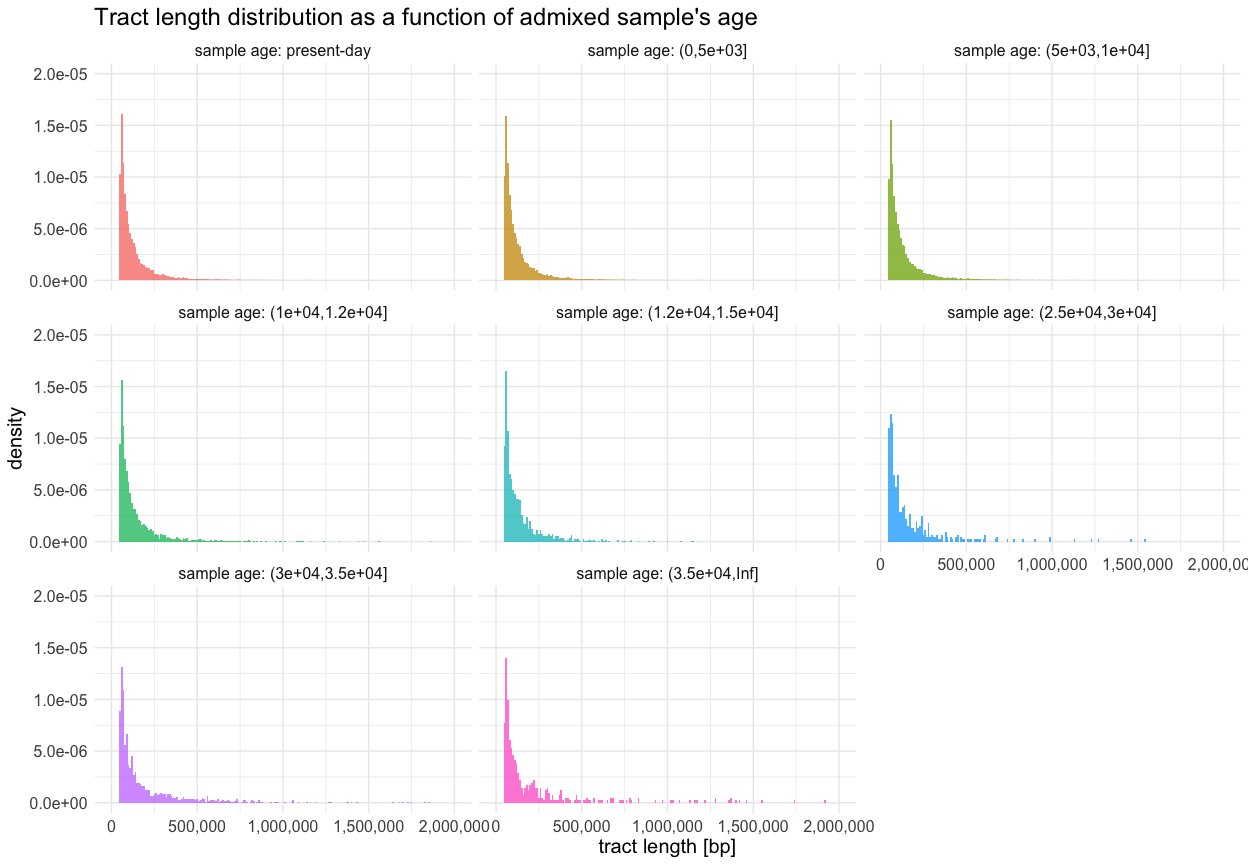
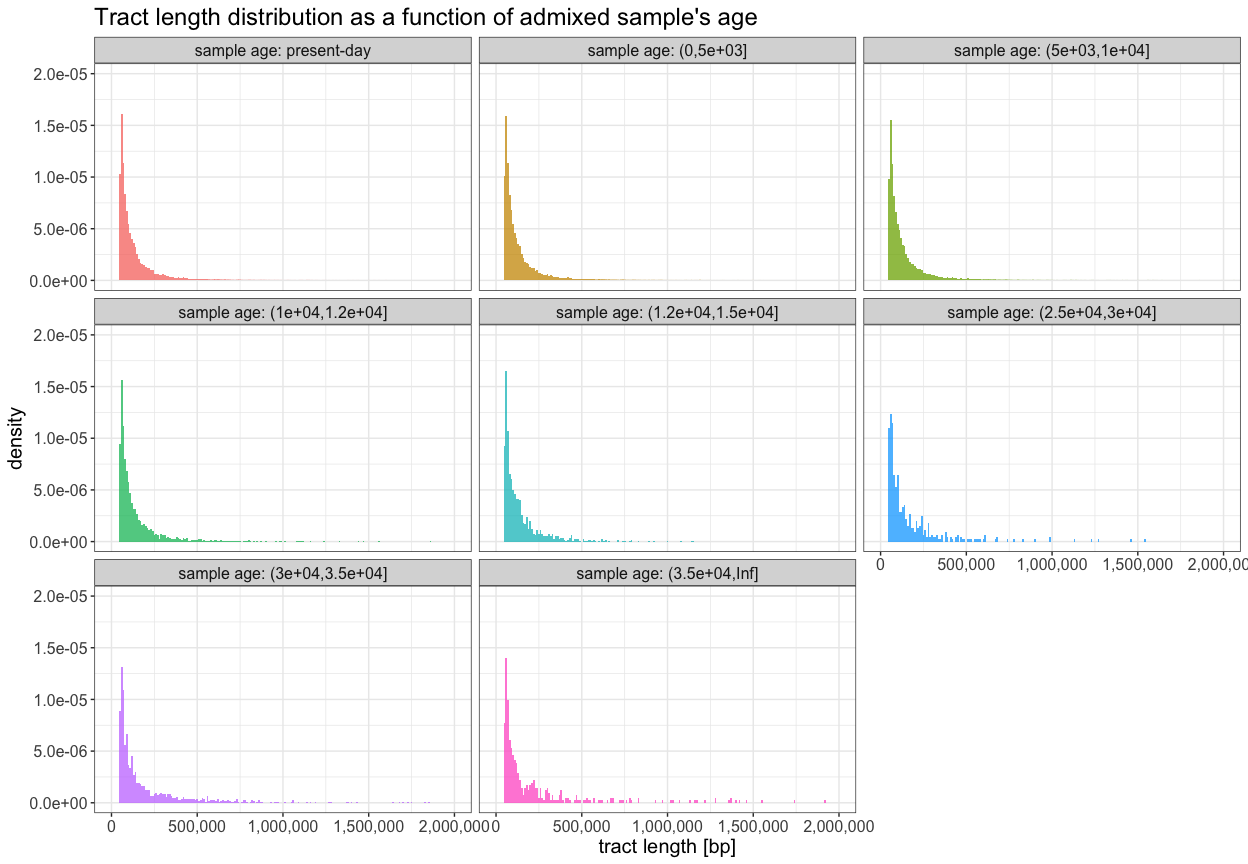
Update themes

Changed region(s): [[0.0625, 0.0312, 1.0, 0.0938], [0.0625, 0.625, 0.6875, 0.6875], [0.0625, 0.3438, 1.0, 0.4062]]

diff --git a/dating.md b/dating.md
@@ -405,7 +405,7 @@ inner_join(
 #> [1] TRUE
 ```
 
-## Admixture dating using empirical data
+## Admixture dating in empirical data
 
 ``` r
 metadata <- read_metadata()
@@ -494,7 +494,7 @@ ggplot() +
   scale_x_continuous(labels = scales::comma) +
   expand_limits(y = 0) +
   coord_cartesian(ylim = c(0, 2e-5), xlim = c(0, 2e6)) +
-  theme_minimal() +
+  theme_bw() +
   theme(legend.position = "none", text = element_text(size = 15)) +
   facet_wrap(~ sample_age, labeller = labeller(sample_age = function(x) paste("sample age:", x)))
 ```
